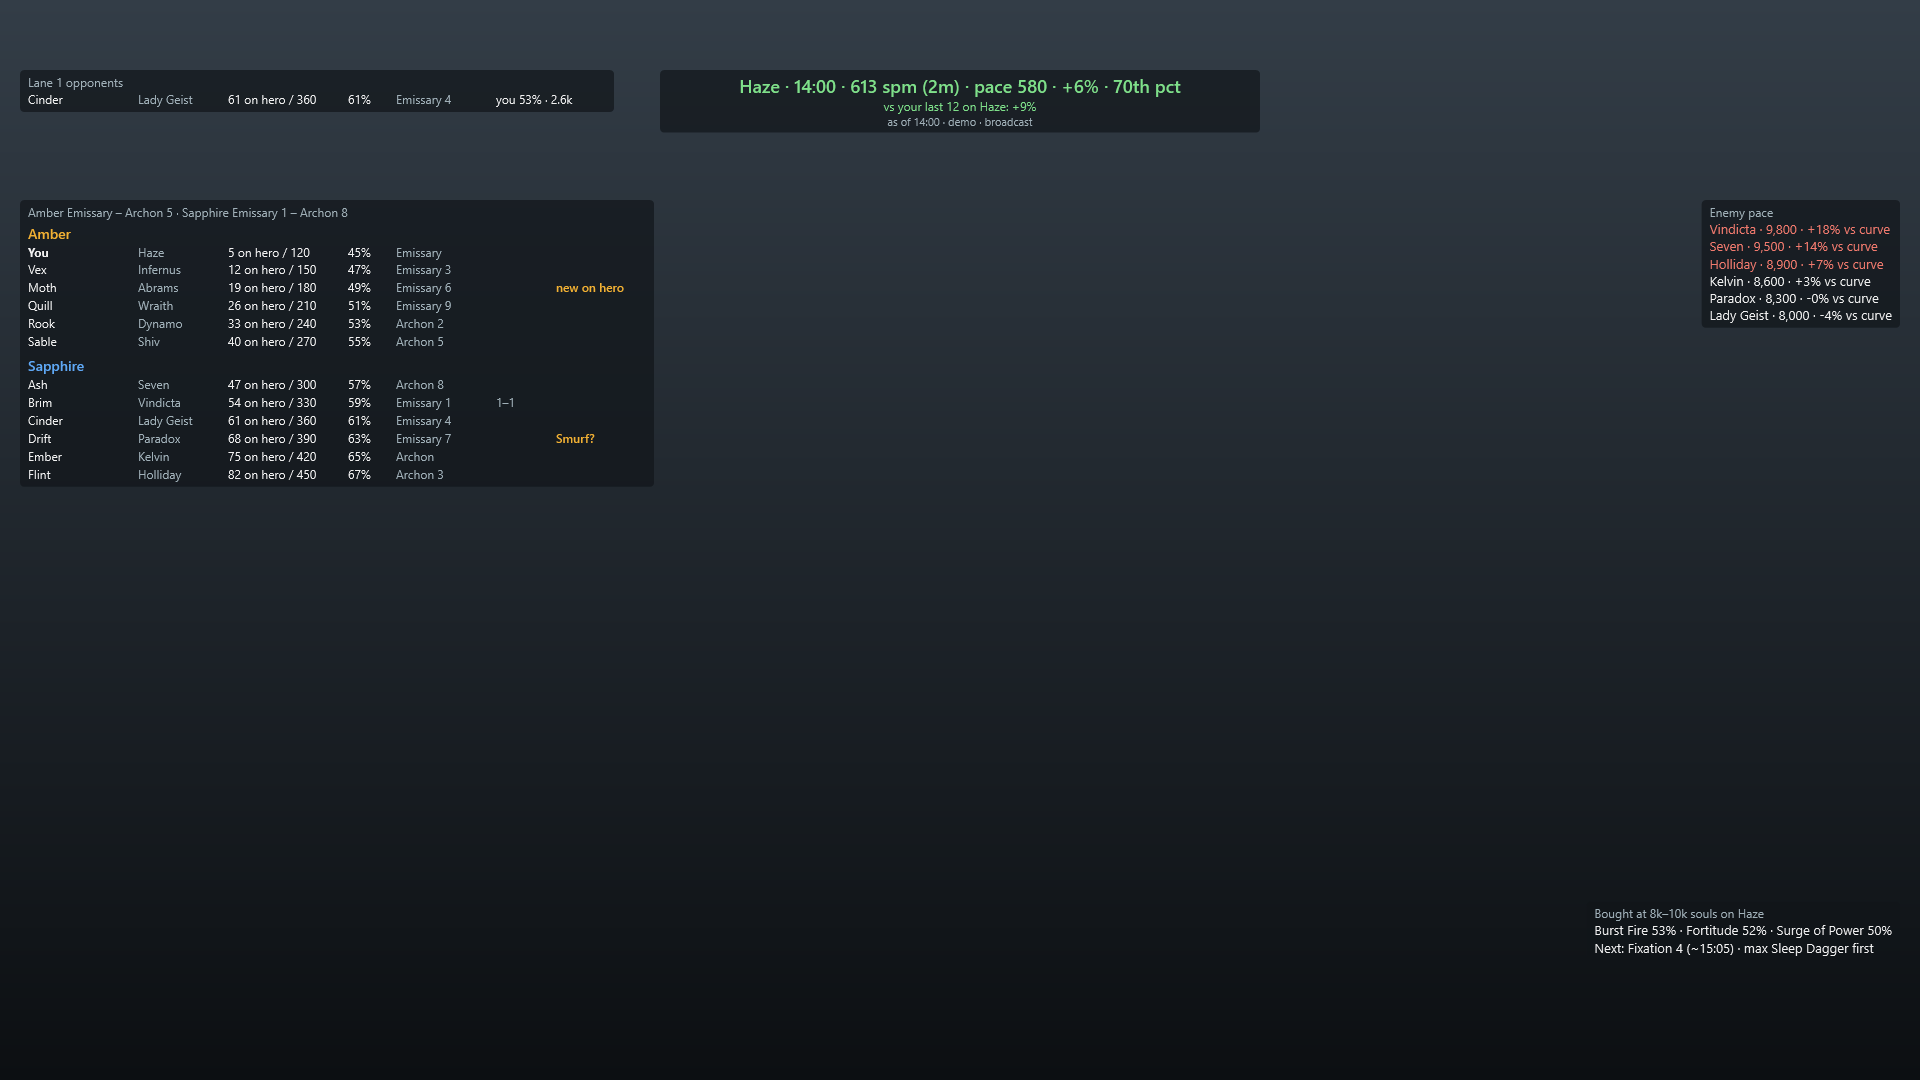
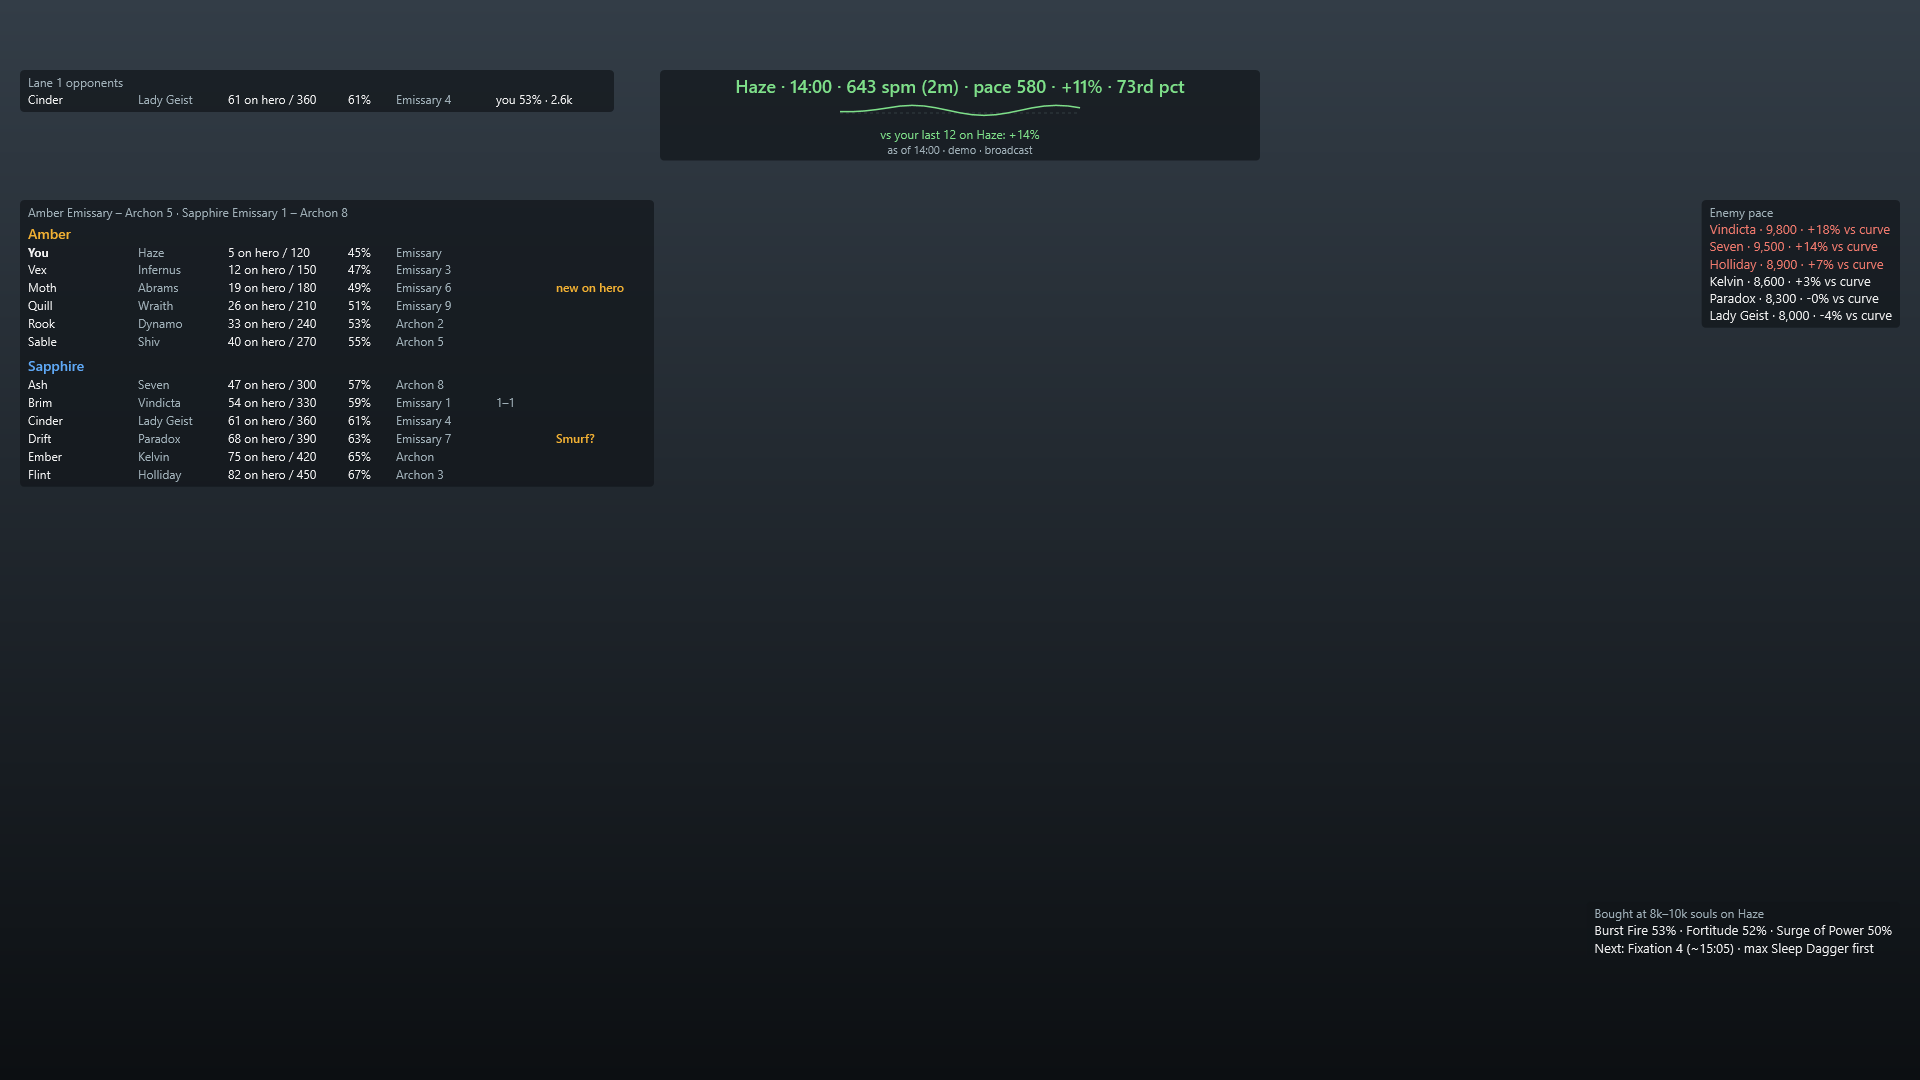
M6: pace sparkline (#15)
* M6: pace sparkline

A small line under the pace strip, in the overlay and the main window,
shows your 2-minute pace delta against the curve every 30 seconds over
the last ten minutes. The middle is on pace and the edges are ±25%.
PaceMath.Sparkline derives it from the meter's samples and the curve
each time it is drawn; nothing is stored. It starts one meter window
into the match, where a shorter window would make the first points
jumpy. overlay.panels.sparkline turns it off.

The demo lobby's pace now dips mid-game and recovers, so the screenshot
shows a shape.

Claude-Session: https://claude.ai/code/session_01LSDkBn23Na5vMSKWLtGadZ

* Update app screenshots

* Demo lobby: a gentler pace wave for the sparkline

The first demo pace recovered so hard that the current delta read +38%
and the line sat flat against the +25% edge. Now it swings ±12% around
about +6%, which is what a match looks like.

Claude-Session: https://claude.ai/code/session_01LSDkBn23Na5vMSKWLtGadZ

* Update app screenshots

---------

Changed region(s): [[0.3438, 0.0611, 0.6562, 0.1528]]

diff --git a/src/DeadlockScout.App/MainWindow.xaml b/src/DeadlockScout.App/MainWindow.xaml
@@ -78,6 +78,13 @@
                 <Border Background="#B0101418" CornerRadius="4" Padding="8,4" Margin="0,0,0,8">
                     <StackPanel>
                         <TextBlock Text="{Binding Pace.Line}" FontSize="16" FontWeight="SemiBold" Foreground="{Binding Pace.Delta, Converter={x:Static vm:Converters.DeltaBrush}}"/>
+                        <Canvas Width="240" Height="26" Margin="0,2,0,0" HorizontalAlignment="Left" x:Name="MainSparkline"
+                                Visibility="{Binding Pace.HasSparkline, Converter={x:Static vm:Converters.VisibleIfTrue}}"
+                                ToolTip="Your pace against the curve over the last ten minutes; the middle line is on pace, the edges ±25%">
+                            <Line X1="0" Y1="13" X2="240" Y2="13" Stroke="#506A7880" StrokeThickness="1" StrokeDashArray="3 3"/>
+                            <Polyline Points="{Binding Pace.Sparkline}" StrokeThickness="1.5" StrokeLineJoin="Round"
+                                      Stroke="{Binding Pace.Delta, Converter={x:Static vm:Converters.DeltaBrush}}"/>
+                        </Canvas>
                         <TextBlock Text="{Binding Pace.PersonalLine}" FontSize="13" Foreground="{Binding Pace.PersonalDelta, Converter={x:Static vm:Converters.DeltaBrush}}"
                                    Visibility="{Binding Pace.PersonalLine, Converter={x:Static vm:Converters.VisibleIfNotEmpty}}"/>
                         <TextBlock Text="{Binding Pace.Tooltip}" FontSize="11" Foreground="#A0B0B8"/>

diff --git a/src/DeadlockScout.App/Overlay/OverlayWindow.xaml b/src/DeadlockScout.App/Overlay/OverlayWindow.xaml
@@ -77,6 +77,13 @@
             <StackPanel>
                 <TextBlock Text="{Binding Pace.Line}" FontSize="18" FontWeight="SemiBold" HorizontalAlignment="Center"
                            Foreground="{Binding Pace.Delta, Converter={x:Static vm:Converters.DeltaBrush}}"/>
+                <Canvas Width="240" Height="26" Margin="0,2,0,0" HorizontalAlignment="Center" x:Name="Sparkline"
+                        Visibility="{Binding Pace.HasSparkline, Converter={x:Static vm:Converters.VisibleIfTrue}}"
+                        ToolTip="Your pace against the curve over the last ten minutes; the middle line is on pace, the edges ±25%">
+                    <Line X1="0" Y1="13" X2="240" Y2="13" Stroke="#506A7880" StrokeThickness="1" StrokeDashArray="3 3"/>
+                    <Polyline Points="{Binding Pace.Sparkline}" StrokeThickness="1.5" StrokeLineJoin="Round"
+                              Stroke="{Binding Pace.Delta, Converter={x:Static vm:Converters.DeltaBrush}}"/>
+                </Canvas>
                 <TextBlock Text="{Binding Pace.PersonalLine}" FontSize="12" HorizontalAlignment="Center"
                            Foreground="{Binding Pace.PersonalDelta, Converter={x:Static vm:Converters.DeltaBrush}}"
                            Visibility="{Binding Pace.PersonalLine, Converter={x:Static vm:Converters.VisibleIfNotEmpty}}"/>

diff --git a/tests/DeadlockScout.Tests/Core/SparklineTests.cs b/tests/DeadlockScout.Tests/Core/SparklineTests.cs
@@ -1,0 +1,54 @@
+using DeadlockScout.Core.Benchmarks;
+using DeadlockScout.Core.Meter;
+using DeadlockScout.Core.Models;
+
+namespace DeadlockScout.Tests.Core;
+
+public class SparklineTests
+{
+    /// <summary>A curve expecting a steady 500 souls a minute.</summary>
+    private static PaceCurve Curve() => new(13, RankBracket.All, "v1",
+        Enumerable.Range(0, 9).Select(i => new PacePoint(i * 5, null, null, null, i * 5 * 500)).ToList(), 40, "test");
+
+    private static SoulRateMeter Meter(int untilSeconds, Func<int, double> spm)
+    {
+        var m = new SoulRateMeter(TimeSpan.FromMinutes(2), TimeSpan.FromMinutes(20));
+        double souls = 0;
+        for (int s = 0; s <= untilSeconds; s += 10)
+        {
+            m.Add(new SoulSample(TimeSpan.FromSeconds(s), (int)souls, SampleSource.LiveFeed));
+            souls += spm(s) / 6; // 10 s of farming
+        }
+        return m;
+    }
+
+    [Fact]
+    public void Points_cover_the_last_ten_minutes_every_30_seconds_ending_now()
+    {
+        var points = PaceMath.Sparkline(Meter(900, _ => 550), Curve(), TimeSpan.FromMinutes(10), TimeSpan.FromSeconds(30));
+        Assert.Equal(21, points.Count);                            // 5:00 .. 15:00
+        Assert.Equal(TimeSpan.FromMinutes(5), points[0].GameTime);
+        Assert.Equal(TimeSpan.FromMinutes(15), points[^1].GameTime);
+        Assert.All(points, p => Assert.Equal(0.1, p.Delta, 2));   // 550 against 500: +10% throughout
+    }
+
+    [Fact]
+    public void A_slump_shows_as_a_dip()
+    {
+        // On pace, then half pace from 9:00 to 11:00, then on pace again.
+        var points = PaceMath.Sparkline(Meter(900, s => s is >= 540 and < 660 ? 250 : 500), Curve(), TimeSpan.FromMinutes(10), TimeSpan.FromSeconds(30));
+        var low = points.MinBy(p => p.Delta);
+        Assert.InRange(low.Delta, -0.55, -0.4);
+        Assert.Equal(TimeSpan.FromMinutes(11), low.GameTime);    // the 2-minute window is all slump at 11:00
+        Assert.Equal(0, points[^1].Delta, 2);                     // recovered by 15:00
+    }
+
+    [Fact]
+    public void Early_game_starts_one_window_in_and_an_empty_meter_has_no_line()
+    {
+        var early = PaceMath.Sparkline(Meter(180, _ => 500), Curve(), TimeSpan.FromMinutes(10), TimeSpan.FromSeconds(30));
+        Assert.Equal(TimeSpan.FromMinutes(2), early[0].GameTime); // not from 0:00, where a short window is jumpy
+        Assert.Equal(3, early.Count);                             // 2:00, 2:30, 3:00
+        Assert.Empty(PaceMath.Sparkline(new SoulRateMeter(), Curve(), TimeSpan.FromMinutes(10), TimeSpan.FromSeconds(30)));
+    }
+}

diff --git a/src/DeadlockScout.App/ViewModels/OverlayState.cs b/src/DeadlockScout.App/ViewModels/OverlayState.cs
@@ -1,4 +1,5 @@
 using System.Collections.Concurrent;
+using System.Windows.Media;
 using DeadlockScout.App.Services;
 using DeadlockScout.Core.Benchmarks;
 using DeadlockScout.Core.Builds;
@@ -147,11 +148,13 @@ public sealed class OverlayState
             var e = PaceMath.Evaluate(curve, reading);
             Pace.Line = PaceMath.FormatLine(hero, e, window);
             Pace.Delta = e.Delta;
+            Pace.Sparkline = SparklinePoints(PaceMath.Sparkline(Meter, curve, PaceStripViewModel.SparkSpan, PaceStripViewModel.SparkStep), reading.GameTime);
         }
         else
         {
             Pace.Line = $"{hero} · {PaceMath.FormatClock(reading.GameTime)} · {reading.WindowSpm:0} spm ({window.TotalMinutes:0}m) · no benchmark yet";
             Pace.Delta = null;
+            if (Pace.Sparkline.Count > 0) Pace.Sparkline = new PointCollection();
         }
         if (PersonalCurve is { } personal && PaceMath.Evaluate(personal, reading).Delta is { } mine)
         {
@@ -165,6 +168,22 @@ public sealed class OverlayState
         }
         Pace.AsOf = $"as of {PaceMath.FormatClock(reading.GameTime)}";
         Pace.HasData = true;
+    }
+
+    /// <summary>Maps (game time, delta) to the sparkline box: now at the right edge, ten minutes ago at the left, 0% in the middle.</summary>
+    private static PointCollection SparklinePoints(IReadOnlyList<(TimeSpan GameTime, double Delta)> points, TimeSpan now)
+    {
+        const double w = PaceStripViewModel.SparkWidth, h = PaceStripViewModel.SparkHeight, range = PaceStripViewModel.SparkRange;
+        var span = PaceStripViewModel.SparkSpan.TotalSeconds;
+        var pc = new PointCollection(points.Count);
+        foreach (var (t, d) in points)
+        {
+            double x = w - (now - t).TotalSeconds / span * w;
+            double y = h / 2 - Math.Clamp(d / range, -1, 1) * (h / 2 - 1);
+            pc.Add(new System.Windows.Point(Math.Max(0, x), y));
+        }
+        pc.Freeze();
+        return pc;
     }
 
     private void RefreshBuild()

diff --git a/src/DeadlockScout.App/ViewModels/PanelViewModels.cs b/src/DeadlockScout.App/ViewModels/PanelViewModels.cs
@@ -1,4 +1,5 @@
 using System.Collections.ObjectModel;
+using System.Windows.Media;
 using DeadlockScout.Core.Benchmarks;
 using DeadlockScout.Core.Models;
 
@@ -30,6 +31,7 @@ public sealed class PaceStripViewModel : ObservableObject
     private string _sourceLabel = "broadcast";
     private double? _delta;
     private bool _hasData;
+    private PointCollection _sparkline = new();
     private string _personalLine = "";
     private double? _personalDelta;
     public string Line { get => _line; set => Set(ref _line, value); }
@@ -41,6 +43,14 @@ public sealed class PaceStripViewModel : ObservableObject
     public string SourceLabel { get => _sourceLabel; set => Set(ref _sourceLabel, value); }
     public double? Delta { get => _delta; set => Set(ref _delta, value); }
     public bool HasData { get => _hasData; set => Set(ref _hasData, value); }
+    /// <summary>
+    /// The sparkline: pace delta over the last ten minutes in a <see cref="SparkWidth"/> × <see cref="SparkHeight"/> box,
+    /// ±<see cref="SparkRange"/> from the middle line. Empty until there are a few points.
+    /// </summary>
+    public PointCollection Sparkline { get => _sparkline; set { if (Set(ref _sparkline, value)) Raise(nameof(HasSparkline)); } }
+    public bool HasSparkline => _sparkline.Count >= 3;
+    public const double SparkWidth = 240, SparkHeight = 26, SparkRange = 0.25;
+    public static readonly TimeSpan SparkSpan = TimeSpan.FromMinutes(10), SparkStep = TimeSpan.FromSeconds(30);
     /// <summary>"vs your last 12 on Haze: +4%", or empty without a personal curve.</summary>
     public string PersonalLine { get => _personalLine; set => Set(ref _personalLine, value); }
     public double? PersonalDelta { get => _personalDelta; set => Set(ref _personalDelta, value); }

diff --git a/src/DeadlockScout.Core/Benchmarks/PaceMath.cs b/src/DeadlockScout.Core/Benchmarks/PaceMath.cs
@@ -78,6 +78,26 @@ public static class PaceMath
             curve.SampleSize);
     }
 
+    /// <summary>
+    /// The pace delta over the last <paramref name="span"/> of game time, one point per <paramref name="step"/>, for the
+    /// sparkline. Derived from the meter's samples and the curve whenever it is drawn, never stored. Starts no earlier
+    /// than one meter window into the match, where a shorter window would make the first points jumpy.
+    /// </summary>
+    public static IReadOnlyList<(TimeSpan GameTime, double Delta)> Sparkline(SoulRateMeter meter, PaceCurve curve, TimeSpan span, TimeSpan step)
+    {
+        if (meter.Latest is not { } latest || step <= TimeSpan.Zero) return Array.Empty<(TimeSpan, double)>();
+        var end = latest.GameTime;
+        var start = end - span;
+        if (start < meter.Window) start = meter.Window;
+        if (meter.Earliest is { } first && start < first.GameTime) start = first.GameTime;
+        var points = new List<(TimeSpan, double)>();
+        // Walk back from the latest sample so the newest point is always "now", then reverse into time order.
+        for (var t = end; t >= start; t -= step)
+            if (meter.ReadAt(t) is { } reading && Evaluate(curve, reading).Delta is { } d) points.Add((t, d));
+        points.Reverse();
+        return points;
+    }
+
     /// <summary>Formats the overlay line: <c>Haze · 14:20 · 612 spm (2m) · pace 580 · +5% · 58th pct</c>.</summary>
     public static string FormatLine(string heroName, PaceEvaluation e, TimeSpan window)
     {

diff --git a/src/DeadlockScout.App/MainWindow.xaml.cs b/src/DeadlockScout.App/MainWindow.xaml.cs
@@ -178,7 +178,8 @@ public partial class MainWindow : Window
         foreach (var opponent in players.Where(p => p.Team != me.Team && p.Lane == me.Lane))
             _state.SetMatchup(opponent.AccountId, new HeroMatchup(me.HeroId, opponent.HeroId, 2572, 1368));
         _state.Pace.Provider = "demo"; _state.Pace.SampleSize = 40; _state.Pace.Bracket = "all";
-        for (int s = 0; s <= 860; s += 60) _state.Meter.Add(new SoulSample(TimeSpan.FromSeconds(s), (int)(s * 10.2), SampleSource.LiveFeed));
+        // About 6% ahead of pace, swinging ±12% with fights and farm, so the sparkline has a shape.
+        for (int s = 0; s <= 860; s += 30) _state.Meter.Add(new SoulSample(TimeSpan.FromSeconds(s), (int)(s * 10.2 + 70 * Math.Sin(s / 360.0 * 2 * Math.PI)), SampleSource.LiveFeed));
         foreach (var p in players.Where(p => p.Team == Teams.Sapphire))
         {
             _state.EnemyCurves[p.AccountId] = curve;

diff --git a/src/DeadlockScout.App/Overlay/OverlayWindow.xaml.cs b/src/DeadlockScout.App/Overlay/OverlayWindow.xaml.cs
@@ -146,6 +146,7 @@ public partial class OverlayWindow : Window
         };
         ScoutPanel.Visibility = scout && (_state.Scout.Amber.Count + _state.Scout.Sapphire.Count) > 0 ? Visibility.Visible : Visibility.Collapsed;
         PacePanel.Visibility = o.Panels.Pace && _state.Pace.HasData ? Visibility.Visible : Visibility.Collapsed;
+        Sparkline.Visibility = o.Panels.Sparkline && _state.Pace.HasSparkline ? Visibility.Visible : Visibility.Collapsed;
         LanePanel.Visibility = o.Panels.Lane && _state.Scout.LaneOpponents.Count > 0 ? Visibility.Visible : Visibility.Collapsed;
         EnemyPanel.Visibility = o.Panels.EnemyPace && _state.EnemyPace.Rows.Count > 0 ? Visibility.Visible : Visibility.Collapsed;
         BuildPanel.Visibility = o.Panels.Build && _state.Build.HasData ? Visibility.Visible : Visibility.Collapsed;

diff --git a/src/DeadlockScout.Core/Settings/ScoutSettings.cs b/src/DeadlockScout.Core/Settings/ScoutSettings.cs
@@ -149,6 +149,8 @@ public sealed record PanelSettings
     public bool Lane { get; init; } = true;
     public ScoutPanelMode Scout { get; init; } = ScoutPanelMode.Auto;
     public bool EnemyPace { get; init; } = true;
+    /// <summary>A small line under the pace strip: your pace delta over the last ten minutes.</summary>
+    public bool Sparkline { get; init; } = true;
     /// <summary>A second pace line under the pace strip: you against your own recent games on the hero.</summary>
     public bool Personal { get; init; } = true;
     public bool Build { get; init; } = true;

diff --git a/src/DeadlockScout.Core/Meter/SoulRateMeter.cs b/src/DeadlockScout.Core/Meter/SoulRateMeter.cs
@@ -36,6 +36,7 @@ public sealed class SoulRateMeter
     public TimeSpan Window => _window;
     public int Count => _samples.Count;
     public SoulSample? Latest => _samples.Count == 0 ? null : _samples[^1];
+    public SoulSample? Earliest => _samples.Count == 0 ? null : _samples[0];
 
     /// <summary>Adds a sample, keeping the buffer sorted by game time and dropping anything older than the retention.</summary>
     public void Add(SoulSample sample)

diff --git a/docs/architecture-seed.md b/docs/architecture-seed.md
@@ -242,7 +242,7 @@ The overlay is an ordinary top-level WPF window drawn over the game, never insid
 
 | Panel | Shows | Default position |
 | --- | --- | --- |
-| Pace strip | Hero · game time · SPM₂ · expected · delta · percentile · provider dot | Top centre, under the timer |
+| Pace strip | Hero · game time · SPM₂ · expected · delta · percentile · provider dot; a sparkline of the delta over the last 10 minutes (±25% band); the personal line | Top centre, under the timer |
 | Lane card | Lane opponent(s): games on hero, WR, rank, met-before, matchup WR | Top left |
 | Scout list | All 11 players, two columns by team; flags for smurf, new-on-hero, stack | Toggle; shown automatically for the first 90 s after the roster arrives |
 | Enemy pace board | Each enemy's net worth vs their hero's curve, sorted by lead | Right edge, compact |
@@ -283,7 +283,7 @@ All agreed features, with the data each one needs and what it costs after cachin
 | Hero pool vs meta | hero-stats (me, shared with scouting's cache) + analytics/hero-stats for your bracket | ≤2 per refresh, usually 0 (12 h and 1 day caches) | M5 |
 | OCR sample source | Screen capture + OCR | 0 | M6 |
 | Objective timers (urn, mid boss) | Real-time clock from OCR | 0 | M6 |
-| Pace sparkline | Meter history | 0 | M6 |
+| Pace sparkline | Meter samples + the curve: your 2-minute pace delta every 30 s over the last 10 min, computed when drawn | 0 | M6 |
 
 Flags shown in the scout list:
 
@@ -336,7 +336,7 @@ Each milestone ends with its gate checked on a real match, not a fixture. M3 is 
     "hotkeyToggle": "Ctrl+Shift+O",
     "hotkeyLayout": "Ctrl+Shift+L",
     "excludeFromCapture": true,
-    "panels": { "pace": true, "lane": true, "scout": "auto", "enemyPace": true, "personal": true, "build": true, "session": true },
+    "panels": { "pace": true, "lane": true, "scout": "auto", "enemyPace": true, "sparkline": true, "personal": true, "build": true, "session": true },
     "positions": {}
   },
   "flags": { "newOnHeroMaxGames": 5, "smurfMaxTotalGames": 50, "smurfMinWinRate": 0.7 },

diff --git a/README.md b/README.md
@@ -4,7 +4,7 @@ A self-improvement overlay for [Deadlock](https://store.steampowered.com/app/142
 
 - **Match detection** from the game's own `console.log` (with `-condebug`) and Steam's logs. No API calls.
 - **Lobby scouting**: games on hero, win rate, rank, players you have met before, smurf and stack flags.
-- **Soul-rate meter**: 2-minute rolling souls per minute against a per-hero, per-rank pace curve, with percentile when the data supports it.
+- **Soul-rate meter**: 2-minute rolling souls per minute against a per-hero, per-rank pace curve, with percentile when the data supports it, and a sparkline of your pace over the last ten minutes.
 - **Lane matchups**: your hero's lane win rate against each lane opponent's hero at your rank.
 - **Build hint**: what your hero's players buy at your current souls, with their win rate, and your next usual ability point.
 - **Real-time souls by OCR** (M6, opt in): draw boxes over your soul count, the match clock and the enemy scoreboard souls, and the built-in Windows OCR reads them once a second, so your pace no longer lags the broadcast by a minute. Only those boxes are ever captured, never the rest of the screen, and nothing while OCR is off. Needs Windows 10 2004 or later and a Windows language with OCR support (English is).
